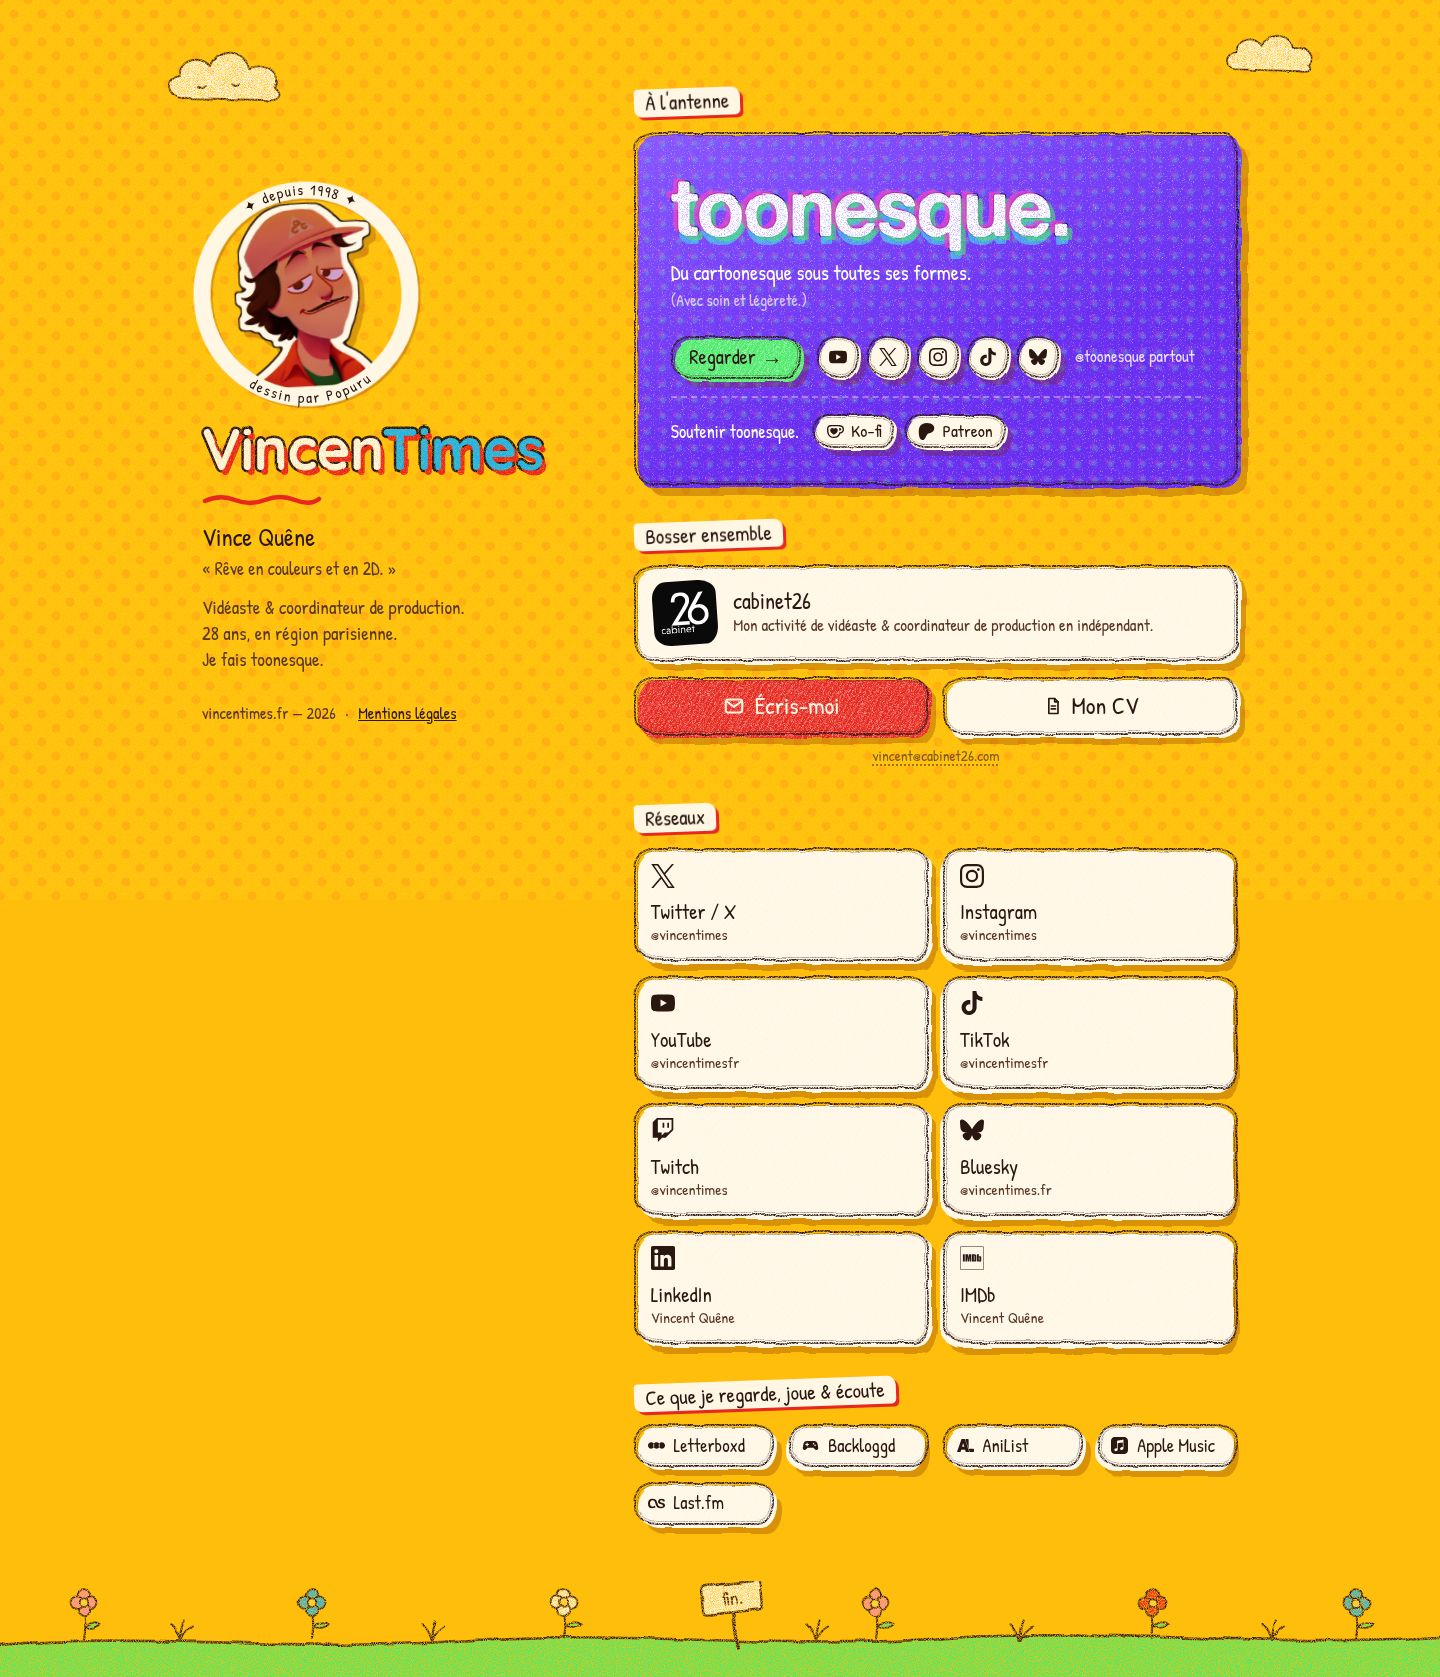
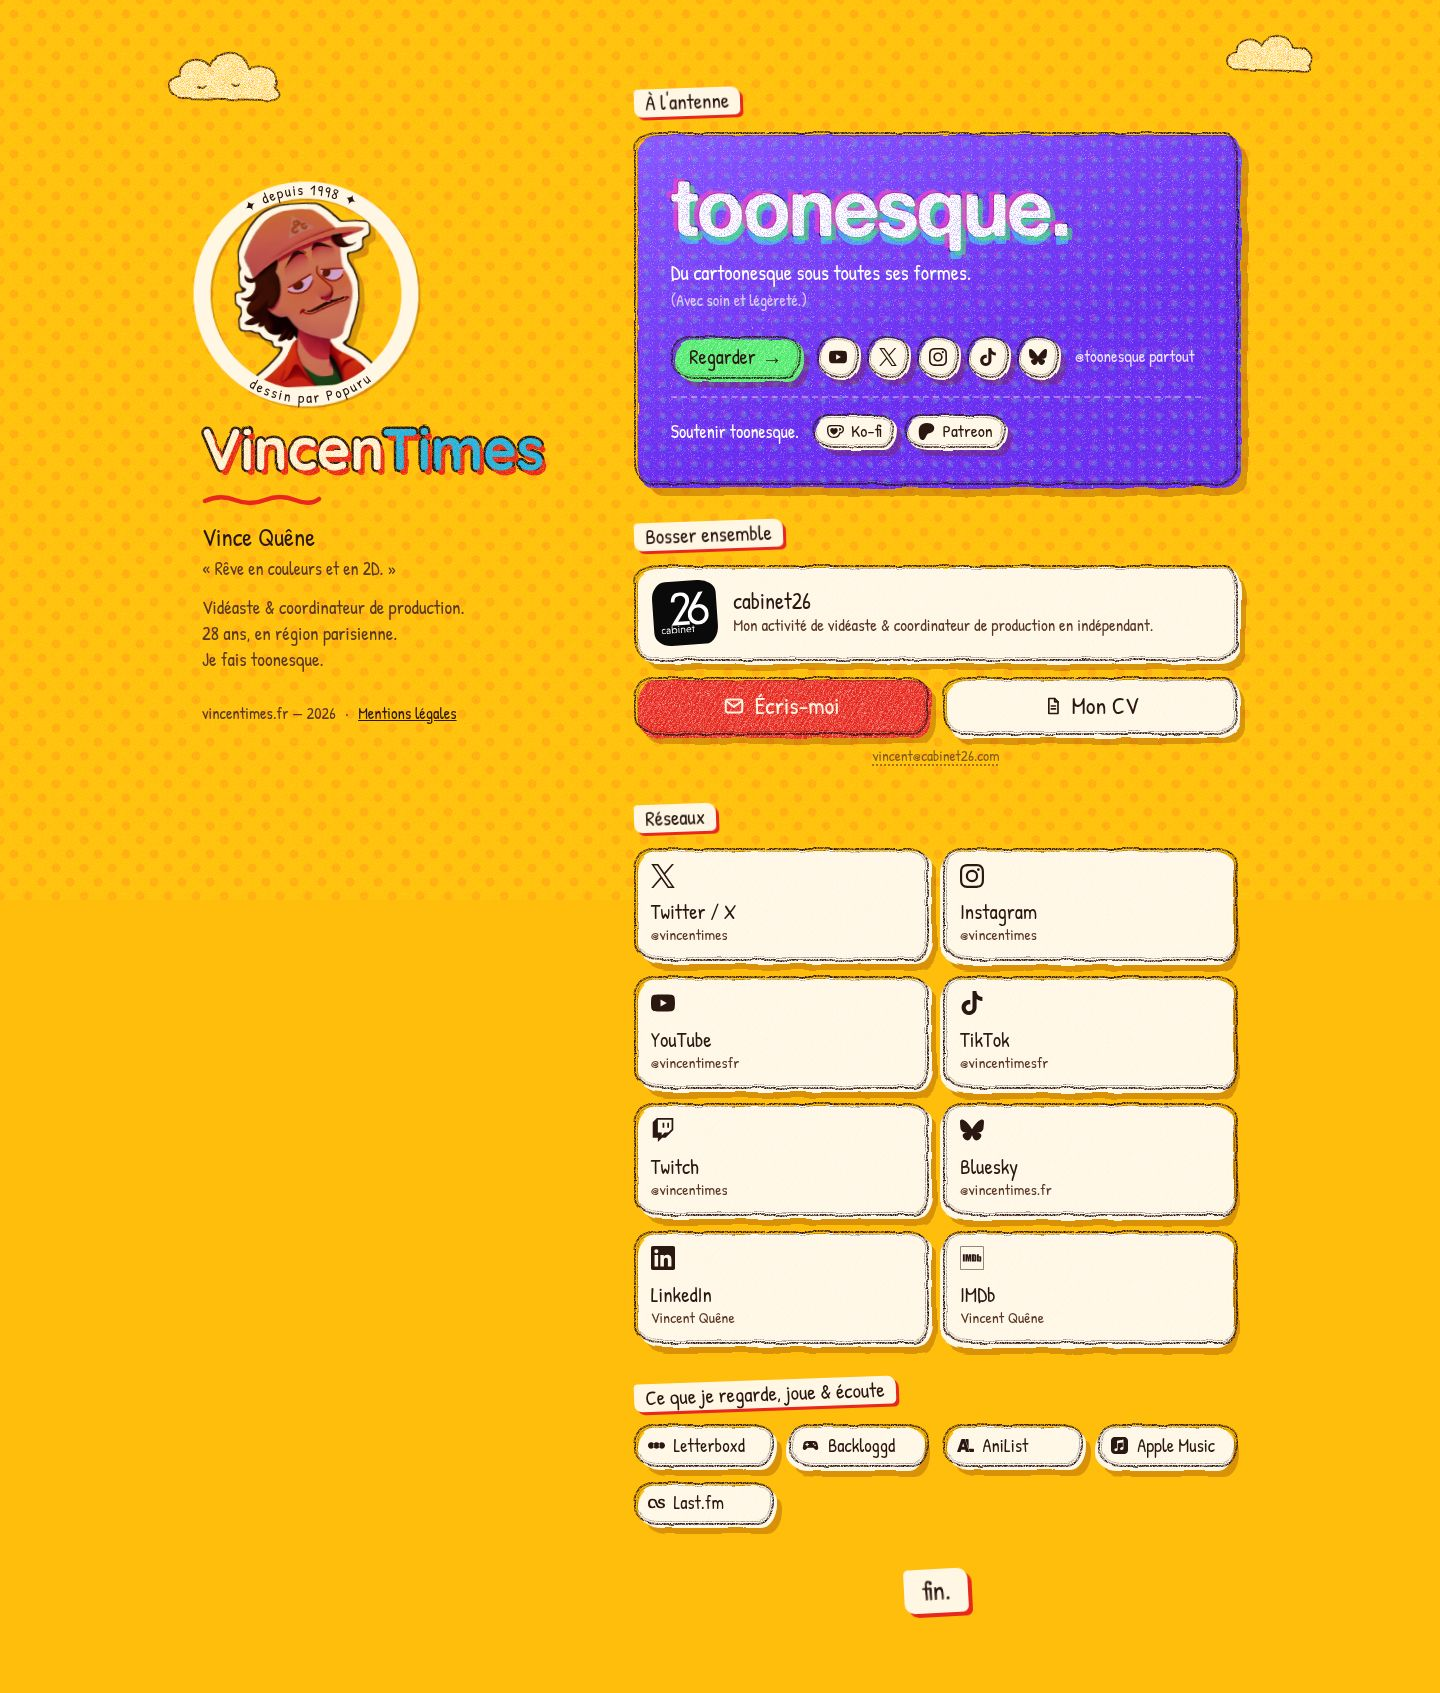
Bas de page : étiquette « fin. » à la place du sol dessiné (plus dans la DA)
Claude-Session: https://claude.ai/code/session_01LKzVBaJrLPfnWSfihrEFNx

Changed region(s): [[0.0, 0.031, 1.0, 1.0], [0.125, 0.093, 0.375, 0.4341], [0.125, 0.031, 0.1875, 0.062]]

diff --git a/index.html b/index.html
@@ -273,23 +273,13 @@
         </ul>
       </section>
 
+
+      <!-- Étiquette de fin, en écho aux nuages du haut -->
+      <p class="the-end" aria-hidden="true"><span>fin.</span></p>
     </div>
 
   </main>
 
-  <!-- Sol dessiné qui répond aux nuages du haut -->
-  <div class="ground" aria-hidden="true">
-    <svg viewBox="0 0 1200 96" preserveAspectRatio="xMidYMax slice"><g filter="url(#pencil)">
-      <path d="M-10 70 C 120 58 240 76 380 66 C 520 56 640 74 780 64 C 920 55 1060 72 1210 62 L1210 110 L-10 110 Z" fill="#4dea6b" stroke="#2b1712" stroke-width="2.2" stroke-linejoin="round"/>
-      <path d="M150 66 q-3 -10 -8 -14 M150 66 q1 -12 3 -17 M150 66 q4 -9 10 -12" fill="none" stroke="#2b1712" stroke-width="1.8" stroke-linecap="round"/><path d="M360 66 q-3 -10 -8 -14 M360 66 q1 -12 3 -17 M360 66 q4 -9 10 -12" fill="none" stroke="#2b1712" stroke-width="1.8" stroke-linecap="round"/><path d="M680 66 q-3 -10 -8 -14 M680 66 q1 -12 3 -17 M680 66 q4 -9 10 -12" fill="none" stroke="#2b1712" stroke-width="1.8" stroke-linecap="round"/><path d="M850 66 q-3 -10 -8 -14 M850 66 q1 -12 3 -17 M850 66 q4 -9 10 -12" fill="none" stroke="#2b1712" stroke-width="1.8" stroke-linecap="round"/><path d="M1060 66 q-3 -10 -8 -14 M1060 66 q1 -12 3 -17 M1060 66 q4 -9 10 -12" fill="none" stroke="#2b1712" stroke-width="1.8" stroke-linecap="round"/>
-      <path d="M70 40 Q72 54 70 64" fill="none" stroke="#2b1712" stroke-width="1.8" stroke-linecap="round"/><path d="M71 54 q8 -6 13 -2 q-6 5 -13 2z" fill="#4dea6b" stroke="#2b1712" stroke-width="1.5" stroke-linejoin="round"/><circle cx="70" cy="28" r="5.2" fill="#ff86ad" stroke="#2b1712" stroke-width="1.6"/><circle cx="76" cy="34" r="5.2" fill="#ff86ad" stroke="#2b1712" stroke-width="1.6"/><circle cx="70" cy="40" r="5.2" fill="#ff86ad" stroke="#2b1712" stroke-width="1.6"/><circle cx="64" cy="34" r="5.2" fill="#ff86ad" stroke="#2b1712" stroke-width="1.6"/><circle cx="70" cy="34" r="3.6" fill="#ffd84d" stroke="#2b1712" stroke-width="1.5"/><path d="M260 40 Q262 54 260 64" fill="none" stroke="#2b1712" stroke-width="1.8" stroke-linecap="round"/><path d="M261 54 q8 -6 13 -2 q-6 5 -13 2z" fill="#4dea6b" stroke="#2b1712" stroke-width="1.5" stroke-linejoin="round"/><circle cx="260" cy="28" r="5.2" fill="#1cb4ee" stroke="#2b1712" stroke-width="1.6"/><circle cx="266" cy="34" r="5.2" fill="#1cb4ee" stroke="#2b1712" stroke-width="1.6"/><circle cx="260" cy="40" r="5.2" fill="#1cb4ee" stroke="#2b1712" stroke-width="1.6"/><circle cx="254" cy="34" r="5.2" fill="#1cb4ee" stroke="#2b1712" stroke-width="1.6"/><circle cx="260" cy="34" r="3.6" fill="#ffd84d" stroke="#2b1712" stroke-width="1.5"/><path d="M470 40 Q472 54 470 64" fill="none" stroke="#2b1712" stroke-width="1.8" stroke-linecap="round"/><path d="M471 54 q8 -6 13 -2 q-6 5 -13 2z" fill="#4dea6b" stroke="#2b1712" stroke-width="1.5" stroke-linejoin="round"/><circle cx="470" cy="28" r="5.2" fill="#fff6e4" stroke="#2b1712" stroke-width="1.6"/><circle cx="476" cy="34" r="5.2" fill="#fff6e4" stroke="#2b1712" stroke-width="1.6"/><circle cx="470" cy="40" r="5.2" fill="#fff6e4" stroke="#2b1712" stroke-width="1.6"/><circle cx="464" cy="34" r="5.2" fill="#fff6e4" stroke="#2b1712" stroke-width="1.6"/><circle cx="470" cy="34" r="3.6" fill="#ffd84d" stroke="#2b1712" stroke-width="1.5"/><path d="M730 40 Q732 54 730 64" fill="none" stroke="#2b1712" stroke-width="1.8" stroke-linecap="round"/><path d="M731 54 q8 -6 13 -2 q-6 5 -13 2z" fill="#4dea6b" stroke="#2b1712" stroke-width="1.5" stroke-linejoin="round"/><circle cx="730" cy="28" r="5.2" fill="#ff86ad" stroke="#2b1712" stroke-width="1.6"/><circle cx="736" cy="34" r="5.2" fill="#ff86ad" stroke="#2b1712" stroke-width="1.6"/><circle cx="730" cy="40" r="5.2" fill="#ff86ad" stroke="#2b1712" stroke-width="1.6"/><circle cx="724" cy="34" r="5.2" fill="#ff86ad" stroke="#2b1712" stroke-width="1.6"/><circle cx="730" cy="34" r="3.6" fill="#ffd84d" stroke="#2b1712" stroke-width="1.5"/><path d="M960 40 Q962 54 960 64" fill="none" stroke="#2b1712" stroke-width="1.8" stroke-linecap="round"/><path d="M961 54 q8 -6 13 -2 q-6 5 -13 2z" fill="#4dea6b" stroke="#2b1712" stroke-width="1.5" stroke-linejoin="round"/><circle cx="960" cy="28" r="5.2" fill="#e8281e" stroke="#2b1712" stroke-width="1.6"/><circle cx="966" cy="34" r="5.2" fill="#e8281e" stroke="#2b1712" stroke-width="1.6"/><circle cx="960" cy="40" r="5.2" fill="#e8281e" stroke="#2b1712" stroke-width="1.6"/><circle cx="954" cy="34" r="5.2" fill="#e8281e" stroke="#2b1712" stroke-width="1.6"/><circle cx="960" cy="34" r="3.6" fill="#ffd84d" stroke="#2b1712" stroke-width="1.5"/><path d="M1130 40 Q1132 54 1130 64" fill="none" stroke="#2b1712" stroke-width="1.8" stroke-linecap="round"/><path d="M1131 54 q8 -6 13 -2 q-6 5 -13 2z" fill="#4dea6b" stroke="#2b1712" stroke-width="1.5" stroke-linejoin="round"/><circle cx="1130" cy="28" r="5.2" fill="#1cb4ee" stroke="#2b1712" stroke-width="1.6"/><circle cx="1136" cy="34" r="5.2" fill="#1cb4ee" stroke="#2b1712" stroke-width="1.6"/><circle cx="1130" cy="40" r="5.2" fill="#1cb4ee" stroke="#2b1712" stroke-width="1.6"/><circle cx="1124" cy="34" r="5.2" fill="#1cb4ee" stroke="#2b1712" stroke-width="1.6"/><circle cx="1130" cy="34" r="3.6" fill="#ffd84d" stroke="#2b1712" stroke-width="1.5"/>
-      <g transform="translate(590 22) rotate(-6)">
-        <path d="M18 18 L19 52" stroke="#2b1712" stroke-width="3" stroke-linecap="round"/>
-        <rect x="-6" y="-2" width="50" height="24" rx="4" fill="#fff6e4" stroke="#2b1712" stroke-width="2"/>
-        <text x="19" y="16" text-anchor="middle" font-family="Patrick Hand, cursive" font-size="17" fill="#2b1712">fin.</text>
-      </g>
-    </g></svg>
-  </div>
 
 <script src="/assets/site.js" defer></script>
 

diff --git a/assets/style.css b/assets/style.css
@@ -148,15 +148,20 @@ a { color: inherit; }
 .cloud-2 .float { animation-duration: 9s; animation-delay: -3s; }
 @keyframes float { 50% { transform: translate(8px, -5px); } }
 
-/* Sol dessiné en bas de page (répond aux nuages) */
-.ground {
-  width: 100%;
-  margin-top: -0.5rem;
-  line-height: 0;
-  pointer-events: none;
+/* Étiquette « fin. » en bas de page (répond aux nuages du haut) */
+.the-end {
+  display: flex;
+  justify-content: center;
+  padding: 0.5rem 0 1rem;
 }
-.ground svg { display: block; width: 100%; height: 96px; }
-@media (max-width: 959px) { .ground svg { height: 78px; } }
+.the-end span {
+  padding: 0.1rem 1.1rem 0.25rem;
+  font-size: 1.7rem;
+  background: var(--cream);
+  border-radius: 5px 11px 6px 10px;
+  box-shadow: 4px 4px 0 var(--red);
+  transform: rotate(-3deg);
+}
 
 /* ---------- Mise en page ---------- */
 
